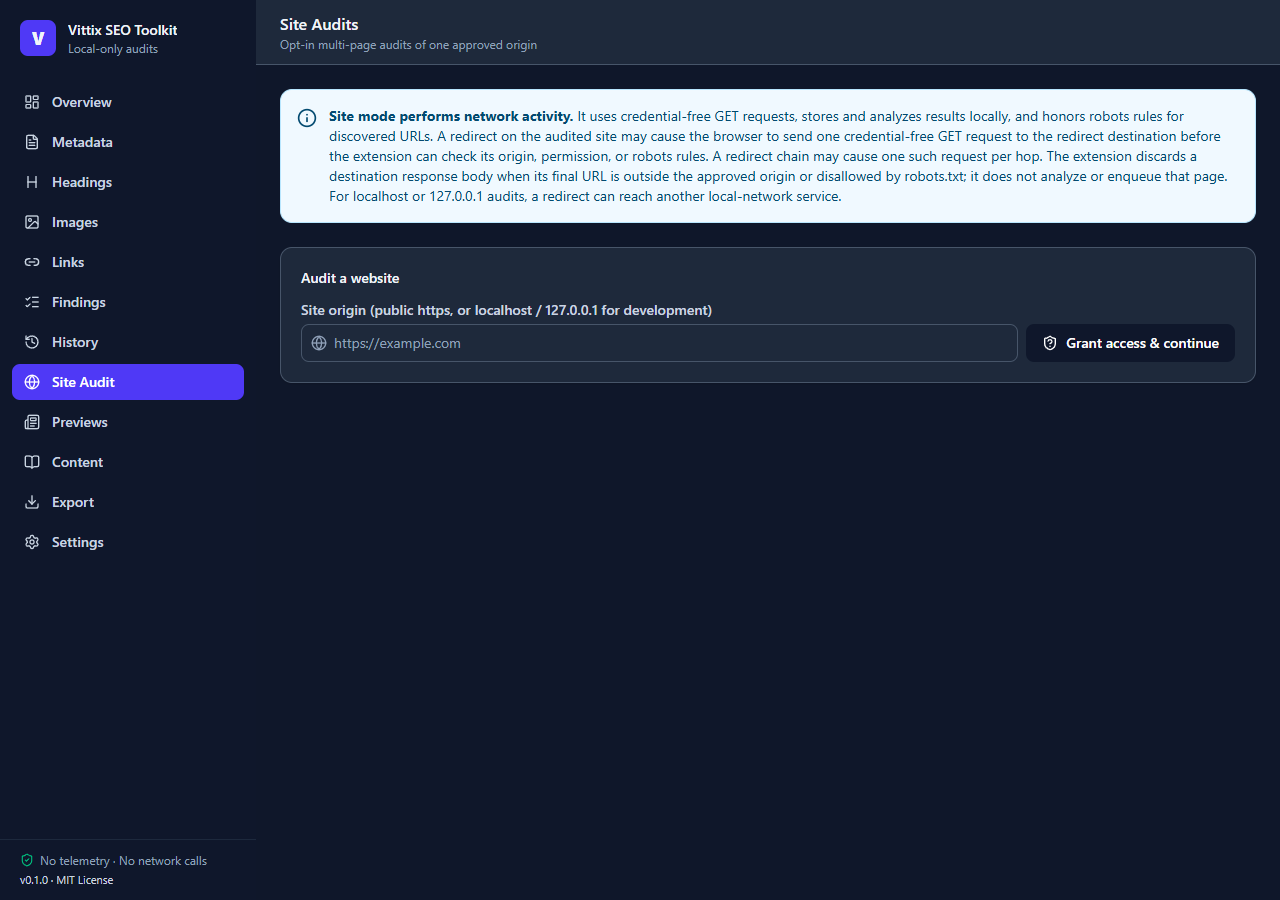
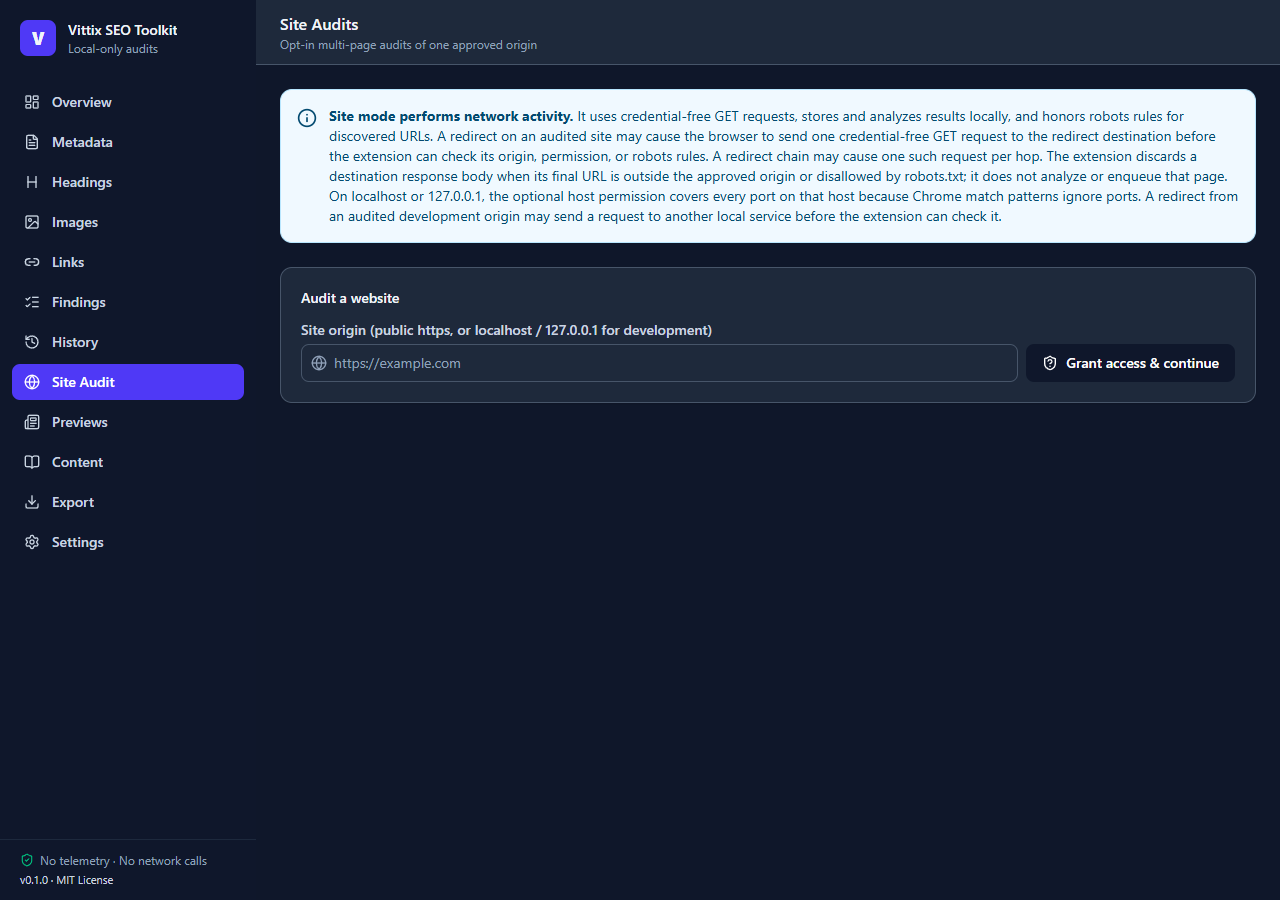
docs(consent): disclose localhost redirect exposure

Changed region(s): [[0.2188, 0.1867, 1.0, 0.4356], [0.4062, 0.1244, 0.9375, 0.1556], [0.8125, 0.3733, 0.9688, 0.4356]]

diff --git a/packages/shared/src/site.ts b/packages/shared/src/site.ts
@@ -2,7 +2,7 @@ import { z } from 'zod';
 
 /** Canonical redirect-risk disclosure shown before each site audit. */
 export const SITE_REDIRECT_DISCLOSURE =
-  'A redirect on the audited site may cause the browser to send one credential-free GET request to the redirect destination before the extension can check its origin, permission, or robots rules. A redirect chain may cause one such request per hop. The extension discards a destination response body when its final URL is outside the approved origin or disallowed by robots.txt; it does not analyze or enqueue that page. For localhost or 127.0.0.1 audits, a redirect can reach another local-network service.';
+  'A redirect on an audited site may cause the browser to send one credential-free GET request to the redirect destination before the extension can check its origin, permission, or robots rules. A redirect chain may cause one such request per hop. The extension discards a destination response body when its final URL is outside the approved origin or disallowed by robots.txt; it does not analyze or enqueue that page. On localhost or 127.0.0.1, the optional host permission covers every port on that host because Chrome match patterns ignore ports. A redirect from an audited development origin may send a request to another local service before the extension can check it.';
 import { FindingSchema } from './finding.js';
 
 /**

diff --git a/e2e/siteaudit.spec.ts b/e2e/siteaudit.spec.ts
@@ -36,6 +36,12 @@ test('site audit accepts and labels an HTTP 127.0.0.1 development origin', async
     await dashboard.getByTestId('site-origin-input').fill(origin);
     await dashboard.getByTestId('site-grant').click();
     await expect(dashboard.getByTestId('site-consent')).toBeVisible();
+    await expect(dashboard.getByTestId('site-consent')).toContainText(
+      'the optional host permission covers every port on that host',
+    );
+    await expect(dashboard.getByTestId('site-consent')).toContainText(
+      'may send a request to another local service',
+    );
     await dashboard.getByTestId('site-redirect-consent').check();
     await dashboard.getByTestId('site-start').click();
     await expect(dashboard.getByTestId('site-summary')).toBeVisible({ timeout: 30_000 });

diff --git a/docs/ROADMAP.md b/docs/ROADMAP.md
@@ -30,7 +30,7 @@ sitemap discovery, bounded duplicate similarity heuristics, an internal link
 graph, and stored site-audit regressions. Browser-follow redirect behavior
 means the crawler cannot guarantee that each network request stays on the
 approved origin. It checks the final response destination after Fetch returns.
-A redirect on the audited site may cause the browser to send one credential-free GET request to the redirect destination before the extension can check its origin, permission, or robots rules. A redirect chain may cause one such request per hop. The extension discards a destination response body when its final URL is outside the approved origin or disallowed by robots.txt; it does not analyze or enqueue that page. For localhost or 127.0.0.1 audits, a redirect can reach another local-network service.
+A redirect on an audited site may cause the browser to send one credential-free GET request to the redirect destination before the extension can check its origin, permission, or robots rules. A redirect chain may cause one such request per hop. The extension discards a destination response body when its final URL is outside the approved origin or disallowed by robots.txt; it does not analyze or enqueue that page. On localhost or 127.0.0.1, the optional host permission covers every port on that host because Chrome match patterns ignore ports. A redirect from an audited development origin may send a request to another local service before the extension can check it.
 
 ## Snapshot schema v5 (Phase A follow-up, 2026-11-01)
 

diff --git a/README.md b/README.md
@@ -79,7 +79,7 @@ browser to contact its destination before the extension can inspect it; the
 body is discarded when that final destination is outside the approved origin
 or disallowed by robots. Results are stored locally. You can wipe all data from
 the options page at any time.
-A redirect on the audited site may cause the browser to send one credential-free GET request to the redirect destination before the extension can check its origin, permission, or robots rules. A redirect chain may cause one such request per hop. The extension discards a destination response body when its final URL is outside the approved origin or disallowed by robots.txt; it does not analyze or enqueue that page. For localhost or 127.0.0.1 audits, a redirect can reach another local-network service.
+A redirect on an audited site may cause the browser to send one credential-free GET request to the redirect destination before the extension can check its origin, permission, or robots rules. A redirect chain may cause one such request per hop. The extension discards a destination response body when its final URL is outside the approved origin or disallowed by robots.txt; it does not analyze or enqueue that page. On localhost or 127.0.0.1, the optional host permission covers every port on that host because Chrome match patterns ignore ports. A redirect from an audited development origin may send a request to another local service before the extension can check it.
 See [docs/PRIVACY.md](docs/PRIVACY.md) and
 [docs/SECURITY.md](docs/SECURITY.md).
 

diff --git a/docs/STORE_LISTING.md b/docs/STORE_LISTING.md
@@ -39,7 +39,7 @@ PRIVACY BY DESIGN
 • No accounts, no telemetry, no analytics, no remote code
 • All data stays in your browser's local storage; delete it anytime
 
-A redirect on the audited site may cause the browser to send one credential-free GET request to the redirect destination before the extension can check its origin, permission, or robots rules. A redirect chain may cause one such request per hop. The extension discards a destination response body when its final URL is outside the approved origin or disallowed by robots.txt; it does not analyze or enqueue that page. For localhost or 127.0.0.1 audits, a redirect can reach another local-network service.
+A redirect on an audited site may cause the browser to send one credential-free GET request to the redirect destination before the extension can check its origin, permission, or robots rules. A redirect chain may cause one such request per hop. The extension discards a destination response body when its final URL is outside the approved origin or disallowed by robots.txt; it does not analyze or enqueue that page. On localhost or 127.0.0.1, the optional host permission covers every port on that host because Chrome match patterns ignore ports. A redirect from an audited development origin may send a request to another local service before the extension can check it.
 
 Note: scores are clearly labeled preliminary — they describe on-page
 hygiene, not search rankings.

diff --git a/docs/PRIVACY.md b/docs/PRIVACY.md
@@ -156,7 +156,7 @@ Verified against the final production build (`pnpm build:chrome`, 2026-10-31):
   loopback/link-local/private ranges and IP literals rejected,
   `user:pass@host` URLs rejected — see docs/SITE_AUDIT.md.
 
-A redirect on the audited site may cause the browser to send one credential-free GET request to the redirect destination before the extension can check its origin, permission, or robots rules. A redirect chain may cause one such request per hop. The extension discards a destination response body when its final URL is outside the approved origin or disallowed by robots.txt; it does not analyze or enqueue that page. For localhost or 127.0.0.1 audits, a redirect can reach another local-network service.
+A redirect on an audited site may cause the browser to send one credential-free GET request to the redirect destination before the extension can check its origin, permission, or robots rules. A redirect chain may cause one such request per hop. The extension discards a destination response body when its final URL is outside the approved origin or disallowed by robots.txt; it does not analyze or enqueue that page. On localhost or 127.0.0.1, the optional host permission covers every port on that host because Chrome match patterns ignore ports. A redirect from an audited development origin may send a request to another local service before the extension can check it.
 
 ### Site audit sitemaps
 

diff --git a/docs/SITE_AUDIT.md b/docs/SITE_AUDIT.md
@@ -146,7 +146,7 @@ redirect before those checks.
   for a crawler-specific 10-hop limit. The final URL and redirect presence are
   recorded when observable; hop count and temporary/permanent status are not.
 
-A redirect on the audited site may cause the browser to send one credential-free GET request to the redirect destination before the extension can check its origin, permission, or robots rules. A redirect chain may cause one such request per hop. The extension discards a destination response body when its final URL is outside the approved origin or disallowed by robots.txt; it does not analyze or enqueue that page. For localhost or 127.0.0.1 audits, a redirect can reach another local-network service.
+A redirect on an audited site may cause the browser to send one credential-free GET request to the redirect destination before the extension can check its origin, permission, or robots rules. A redirect chain may cause one such request per hop. The extension discards a destination response body when its final URL is outside the approved origin or disallowed by robots.txt; it does not analyze or enqueue that page. On localhost or 127.0.0.1, the optional host permission covers every port on that host because Chrome match patterns ignore ports. A redirect from an audited development origin may send a request to another local service before the extension can check it.
 
 ### Response-header readability probe
 

diff --git a/docs/PRIVACY_POLICY.md b/docs/PRIVACY_POLICY.md
@@ -57,7 +57,7 @@ browsing history. It does not read content inside iframes.
   disclosure below. Robots rules are checked before crawler requests and
   against same-origin final URLs before their response bodies are parsed.
 
-A redirect on the audited site may cause the browser to send one credential-free GET request to the redirect destination before the extension can check its origin, permission, or robots rules. A redirect chain may cause one such request per hop. The extension discards a destination response body when its final URL is outside the approved origin or disallowed by robots.txt; it does not analyze or enqueue that page. For localhost or 127.0.0.1 audits, a redirect can reach another local-network service.
+A redirect on an audited site may cause the browser to send one credential-free GET request to the redirect destination before the extension can check its origin, permission, or robots rules. A redirect chain may cause one such request per hop. The extension discards a destination response body when its final URL is outside the approved origin or disallowed by robots.txt; it does not analyze or enqueue that page. On localhost or 127.0.0.1, the optional host permission covers every port on that host because Chrome match patterns ignore ports. A redirect from an audited development origin may send a request to another local service before the extension can check it.
 
 ## Permissions
 

diff --git a/docs/SECURITY.md b/docs/SECURITY.md
@@ -59,7 +59,7 @@ See [PRIVACY.md](PRIVACY.md). Single-page audits make no network requests.
 Optional site audits fetch the approved site locally and may contact redirect
 destinations before their final URLs can be checked.
 
-A redirect on the audited site may cause the browser to send one credential-free GET request to the redirect destination before the extension can check its origin, permission, or robots rules. A redirect chain may cause one such request per hop. The extension discards a destination response body when its final URL is outside the approved origin or disallowed by robots.txt; it does not analyze or enqueue that page. For localhost or 127.0.0.1 audits, a redirect can reach another local-network service.
+A redirect on an audited site may cause the browser to send one credential-free GET request to the redirect destination before the extension can check its origin, permission, or robots rules. A redirect chain may cause one such request per hop. The extension discards a destination response body when its final URL is outside the approved origin or disallowed by robots.txt; it does not analyze or enqueue that page. On localhost or 127.0.0.1, the optional host permission covers every port on that host because Chrome match patterns ignore ports. A redirect from an audited development origin may send a request to another local service before the extension can check it.
 
 ## Reporting
 

diff --git a/docs/RELEASE_CHECKLIST.md b/docs/RELEASE_CHECKLIST.md
@@ -29,7 +29,7 @@ dependency or manifest change.
   requests with credentials stripped, robots.txt honored, revocable. See
   docs/SITE_AUDIT.md for the full threat model.
 
-A redirect on the audited site may cause the browser to send one credential-free GET request to the redirect destination before the extension can check its origin, permission, or robots rules. A redirect chain may cause one such request per hop. The extension discards a destination response body when its final URL is outside the approved origin or disallowed by robots.txt; it does not analyze or enqueue that page. For localhost or 127.0.0.1 audits, a redirect can reach another local-network service.
+A redirect on an audited site may cause the browser to send one credential-free GET request to the redirect destination before the extension can check its origin, permission, or robots rules. A redirect chain may cause one such request per hop. The extension discards a destination response body when its final URL is outside the approved origin or disallowed by robots.txt; it does not analyze or enqueue that page. On localhost or 127.0.0.1, the optional host permission covers every port on that host because Chrome match patterns ignore ports. A redirect from an audited development origin may send a request to another local service before the extension can check it.
 
 ## 3. Privacy-policy consistency
 

diff --git a/docs/ARCHITECTURE.md b/docs/ARCHITECTURE.md
@@ -155,4 +155,4 @@ Site mode adds a second, explicitly opt-in pipeline documented in
   (DOMParser-based mirror of the live injector; textContent-based word
   count is the one documented difference).
 
-A redirect on the audited site may cause the browser to send one credential-free GET request to the redirect destination before the extension can check its origin, permission, or robots rules. A redirect chain may cause one such request per hop. The extension discards a destination response body when its final URL is outside the approved origin or disallowed by robots.txt; it does not analyze or enqueue that page. For localhost or 127.0.0.1 audits, a redirect can reach another local-network service.
+A redirect on an audited site may cause the browser to send one credential-free GET request to the redirect destination before the extension can check its origin, permission, or robots rules. A redirect chain may cause one such request per hop. The extension discards a destination response body when its final URL is outside the approved origin or disallowed by robots.txt; it does not analyze or enqueue that page. On localhost or 127.0.0.1, the optional host permission covers every port on that host because Chrome match patterns ignore ports. A redirect from an audited development origin may send a request to another local service before the extension can check it.
